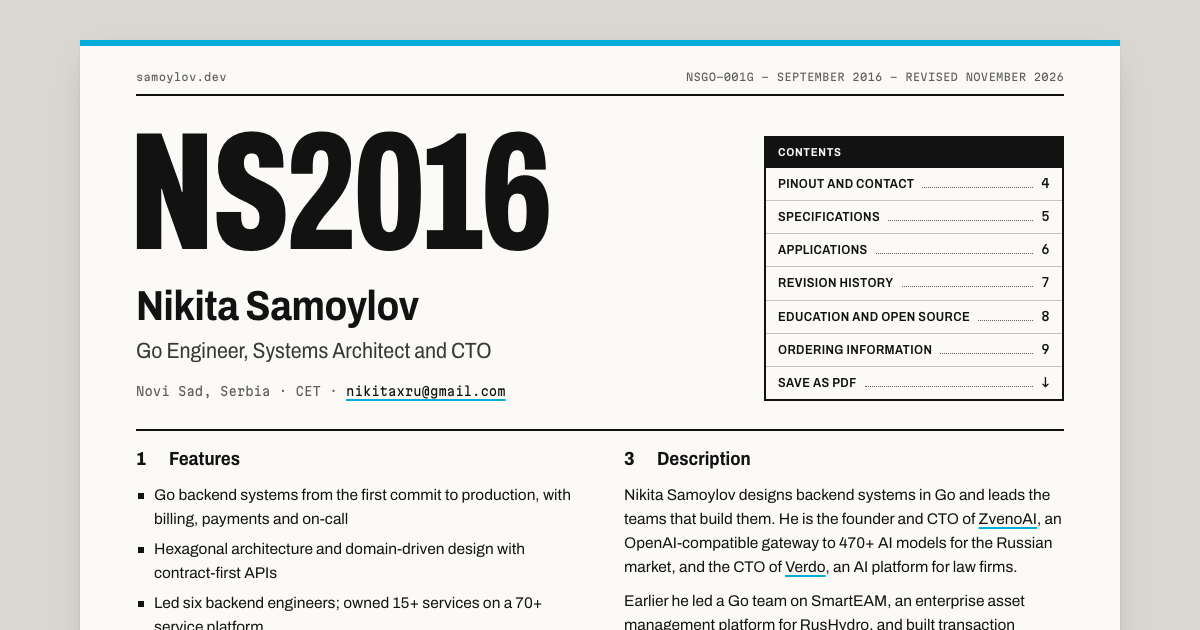
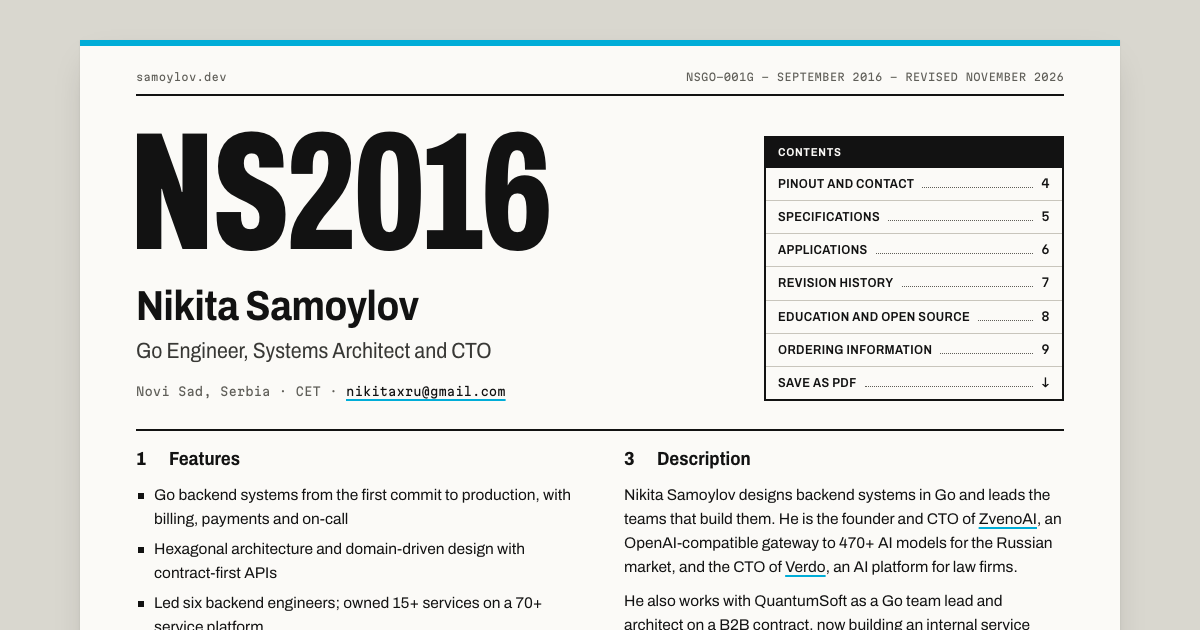
Show QuantumSoft as an ongoing B2B contract
The engagement continues: Go team lead and architect on a B2B contract,
now building an internal service under NDA after SmartEAM.

diff --git a/index.html b/index.html
@@ -32,7 +32,8 @@
   "address": {"@type": "PostalAddress", "addressLocality": "Novi Sad", "addressCountry": "RS"},
   "worksFor": [
     {"@type": "Organization", "name": "ZvenoAI", "url": "https://zveno.ai"},
-    {"@type": "Organization", "name": "Verdo", "url": "https://verdo.tech"}
+    {"@type": "Organization", "name": "Verdo", "url": "https://verdo.tech"},
+    {"@type": "Organization", "name": "QuantumSoft"}
   ],
   "sameAs": ["https://github.com/nikitaxru", "https://www.linkedin.com/in/nikita-samoylov/", "https://t.me/nikitaxru"]
 }
@@ -299,7 +300,7 @@ svg.dia { display: block; width: 100%; height: auto; color: var(--ink); }
     <div>
       <h2><b>3</b>Description</h2>
       <p>Nikita Samoylov designs backend systems in Go and leads the teams that build them. He is the founder and CTO of <a href="https://zveno.ai">ZvenoAI</a>, an OpenAI-compatible gateway to 470+ AI models for the Russian market, and the CTO of <a href="https://verdo.tech">Verdo</a>, an AI platform for law firms.</p>
-      <p>Earlier he led a Go team on SmartEAM, an enterprise asset management platform for RusHydro, and built transaction controls for the Wildberries pickup-point network. He started in IoT: an education startup, edge devices and an MSc in cyber-physical systems.</p>
+      <p>He also works with QuantumSoft as a Go team lead and architect on a B2B contract, now building an internal service under NDA. Before that he led a Go team there on SmartEAM, an enterprise asset management platform for RusHydro. Earlier he built transaction controls for the Wildberries pickup-point network. He started in IoT: an education startup, edge devices and an MSc in cyber-physical systems.</p>
       <table>
         <caption>Device Information<sup>(1)</sup></caption>
         <tbody>
@@ -308,7 +309,7 @@ svg.dia { display: block; width: 100%; height: auto; color: var(--ink); }
           <tr><th scope="row">Function</th><td>Go engineer, systems architect, CTO</td></tr>
           <tr><th scope="row">Shipping since</th><td>September 2016</td></tr>
           <tr><th scope="row">Location</th><td>Novi Sad, Serbia (CET)</td></tr>
-          <tr><th scope="row">In production</th><td>ZvenoAI, Verdo</td></tr>
+          <tr><th scope="row">Current work</th><td>ZvenoAI, Verdo, QuantumSoft (B2B contract)</td></tr>
         </tbody>
       </table>
       <p class="note">(1) For contact options, see <a href="#pinout">Pin Configuration and Functions</a>.</p>
@@ -602,10 +603,10 @@ svg.dia { display: block; width: 100%; height: auto; color: var(--ink); }
           </td>
         </tr>
         <tr>
-          <td class="rev-tag"><b>E</b><span>May 2024 – Feb 2026</span></td>
+          <td class="rev-tag"><b>E</b><span>May 2024 – present</span></td>
           <td>
-            <h3>QuantumSoft <span>Go Team Lead and Architect</span></h3>
-            <p class="ctx">SmartEAM, enterprise asset management for RusHydro. Promoted from Go engineer after four months.</p>
+            <h3>QuantumSoft <span>Go Team Lead and Architect, B2B contract</span></h3>
+            <p class="ctx">Now develops an internal service under NDA. Before that: SmartEAM, enterprise asset management for RusHydro, where he was promoted from Go engineer to team lead after four months.</p>
             <ul class="sq">
               <li>Led six backend engineers and owned 15+ services on a 70+ service platform: architecture, code review, sprint planning, mentoring, onboarding.</li>
               <li>Designed a zero-downtime RBAC migration across 10+ services and an event-driven calculation engine on Kafka and gRPC.</li>
